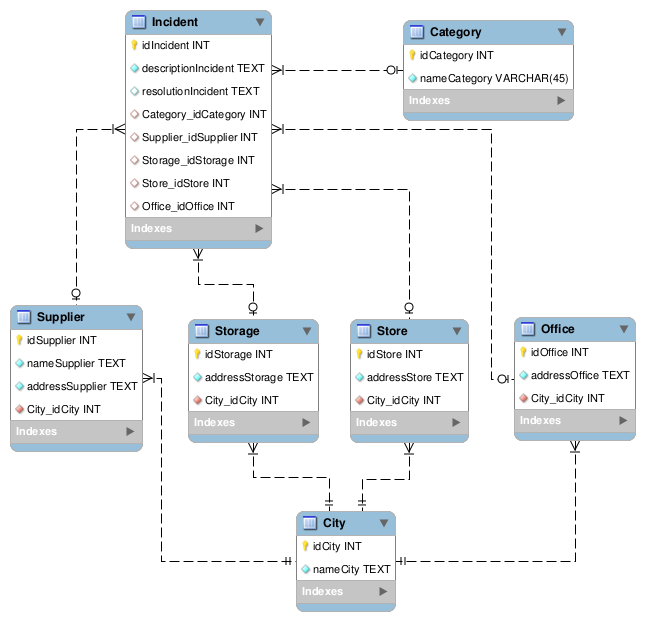
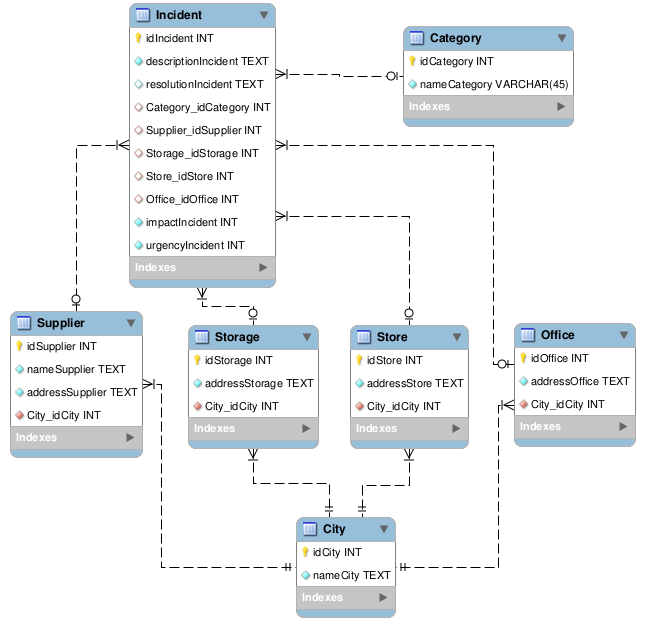
Refactored for priority, urgency and impact

diff --git a/Continente/app/controllers/ims_controller.rb b/Continente/app/controllers/ims_controller.rb
@@ -8,6 +8,16 @@ class ImsController < ApplicationController
 
   def servicedesk_knowledgedatabasequery
     auth("ims_servicedesk")
+    incidents = Incident.where("resolution IS NOT NULL")
+    @incidents = []
+    incidents.each do |incident|
+      @incidents << incident if incident.resolution.size > 0
+    end
+
+    respond_to do |format|
+      format.html # index.html.erb
+      format.json { render :json => @incidents }
+    end
   end
 
   def infrastructureresponsible_productincidentresolution

diff --git a/Continente/db/schema.rb b/Continente/db/schema.rb
@@ -32,6 +32,8 @@ ActiveRecord::Schema.define(:version => 20111215005809) do
     t.integer  "storage_id"
     t.integer  "store_id"
     t.integer  "office_id"
+    t.integer  "impact"
+    t.integer  "urgency"
     t.datetime "created_at"
     t.datetime "updated_at"
   end

diff --git a/Continente/db/migrate/20111215005809_create_incidents.rb b/Continente/db/migrate/20111215005809_create_incidents.rb
@@ -8,6 +8,8 @@ class CreateIncidents < ActiveRecord::Migration
       t.integer :storage_id
       t.integer :store_id
       t.integer :office_id
+      t.integer :impact
+      t.integer :urgency
 
       t.timestamps
     end
